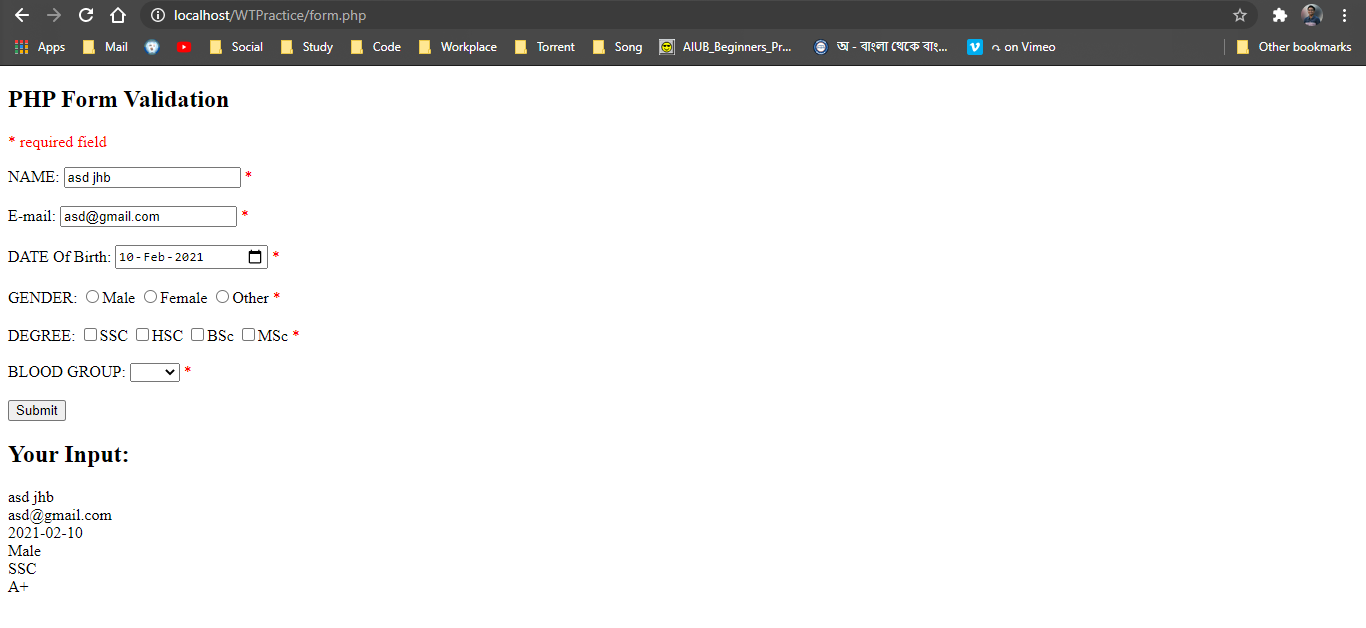
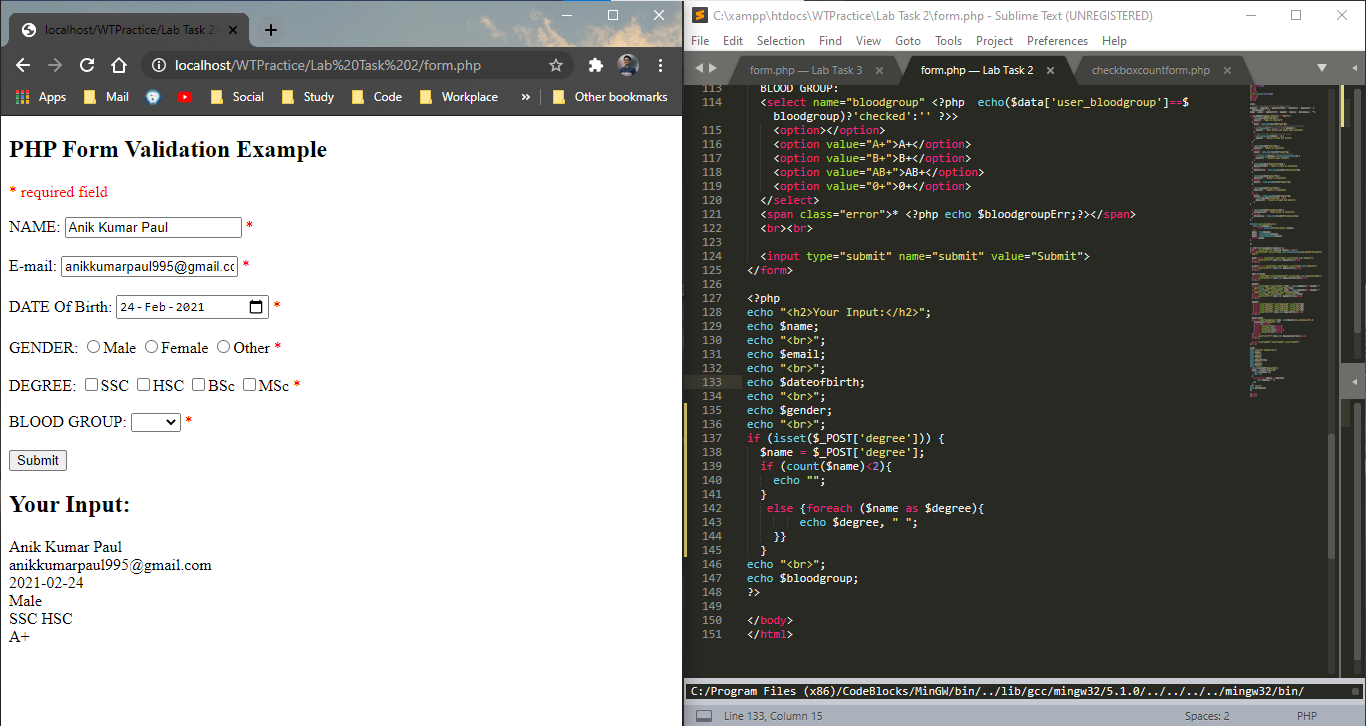
Lab task 2 errors updated

diff --git a/Lab Task 2/form.php b/Lab Task 2/form.php
@@ -53,6 +53,9 @@ if ($_SERVER["REQUEST_METHOD"] == "POST") {
   } 
   else {
     $degree = test_input($_POST["degree"]);
+    if (count($_POST["degree"]) < 2) {
+      $degreeErr = "Select at least two Degree";
+    }
 }
 
 
@@ -64,6 +67,9 @@ if ($_SERVER["REQUEST_METHOD"] == "POST") {
 }
 
 function test_input($data) {
+  if(is_array($data)) {
+        return array_map('test_input', $data);
+    }
   $data = trim($data);
   $data = stripslashes($data);
   $data = htmlspecialchars($data);
@@ -97,10 +103,10 @@ function test_input($data) {
   <br><br>
 
   DEGREE:
-   <input type="checkbox" name="degree" value="SSC">SSC
-   <input type="checkbox" name="degree" value="HSC">HSC
-   <input type="checkbox" name="degree" value="BSc">BSc
-   <input type="checkbox" name="degree" value="MSc">MSc
+   <input type="checkbox" name="degree[]" value="SSC">SSC
+   <input type="checkbox" name="degree[]" value="HSC">HSC
+   <input type="checkbox" name="degree[]" value="BSc">BSc
+   <input type="checkbox" name="degree[]" value="MSc">MSc
    <span class="error">* <?php echo $degreeErr;?></span>
   <br><br>
 
@@ -128,7 +134,15 @@ echo $dateofbirth;
 echo "<br>";
 echo $gender;
 echo "<br>";
-echo $degree;
+if (isset($_POST['degree'])) {
+  $name = $_POST['degree'];
+  if (count($name)<2){
+    echo "";
+  }
+   else {foreach ($name as $degree){ 
+        echo $degree, " ";
+    }}
+  }
 echo "<br>";
 echo $bloodgroup;
 ?>
